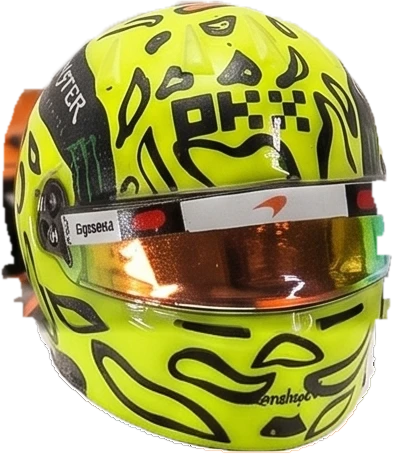
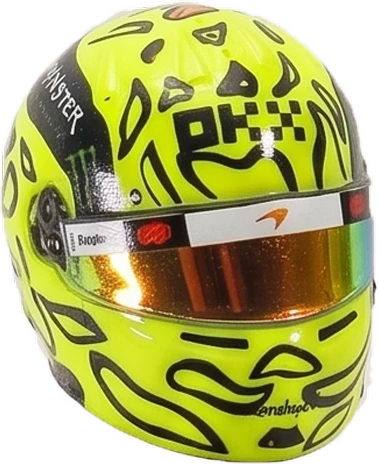
Car section: drop the helmet photo into the cockpit
The falling helmet is the helmet photo again (scaled onto the final photo's
helmet), and it fades out while the final photo fades in.

Claude-Session: https://claude.ai/code/session_01J97npj7o4FM4W4qCJs2evH

diff --git a/src/components/CarShowcase.tsx b/src/components/CarShowcase.tsx
@@ -64,9 +64,9 @@ const STREAKS = [
 // - the base alone (same shot), which rises in first;
 // - the car itself, cut out of that photo with its helmet taken out, which drops onto the base;
 // - the same photo with the helmet taken out (only the cockpit behind it is filled in, from the no-helmet photo);
-// - the helmet, cut out of that photo, which drops into the cockpit and lands exactly on itself.
+// - your helmet photo, scaled onto the helmet in that photo, which drops into the cockpit.
 const SCENE = { width: 76.855 };
-const HELMET = { left: 32.529, top: 7.182, width: 23.118, height: 41.273 };
+const HELMET = { left: 32.647, top: 6.182, width: 22.294, height: 42.182 };
 // The halo and the cockpit rim from the same photo, layered over the helmet so it slides in behind them.
 const FRONT = { left: 34.294, top: 37.818, width: 21, height: 11.545 };
 const VISOR = { left: 36.706, top: 26.273, width: 18.176, height: 8.091 };
@@ -183,15 +183,14 @@ export function CarShowcase({ product }: { product?: Product }) {
           .to(".cs-base", { autoAlpha: 0, duration: 0.01 }, 10.75)
           .fromTo(".cs-cap-3", { autoAlpha: 0, y: 16 }, { autoAlpha: 1, y: 0, duration: 0.5 }, 10.6)
 
-          // 6. The helmet drops in from above and slides down behind the halo into the cockpit, landing on the
-          // final photo's own helmet. The final photo fades in over the layers, then the dropped helmet is
-          // hidden so none of it can show around the edges.
+          // 6. The helmet photo drops in from above and slides down behind the halo into the cockpit, then it
+          // fades out as the final photo fades in over the layers, so none of it shows around the edges.
           .fromTo(".cs-helmet", { y: () => -window.innerHeight, rotate: -10 }, { y: 0, rotate: 0, duration: 1.0, ease: "power2.in" }, 10.9)
           .to(".cs-helmet", { y: -10, duration: 0.1, ease: "power1.out" }, 11.9)
           .to(".cs-helmet", { y: 0, duration: 0.2, ease: "bounce.out" }, 12.0)
           .to(".cs-shake", { y: 4, duration: 0.04, repeat: 3, yoyo: true }, 11.9)
           .to(".cs-final-photo", { autoAlpha: 1, duration: 0.2 }, 12.2)
-          .to(".cs-helmet-in", { opacity: 0, duration: 0.01 }, 12.4)
+          .to(".cs-helmet-in", { opacity: 0, duration: 0.15 }, 12.25)
           .to(".cs-cap-3", { autoAlpha: 0, y: -16, duration: 0.4 }, 12.1)
           .fromTo(".cs-cap-4", { autoAlpha: 0, y: 16 }, { autoAlpha: 1, y: 0, duration: 0.5 }, 12.3)
 
